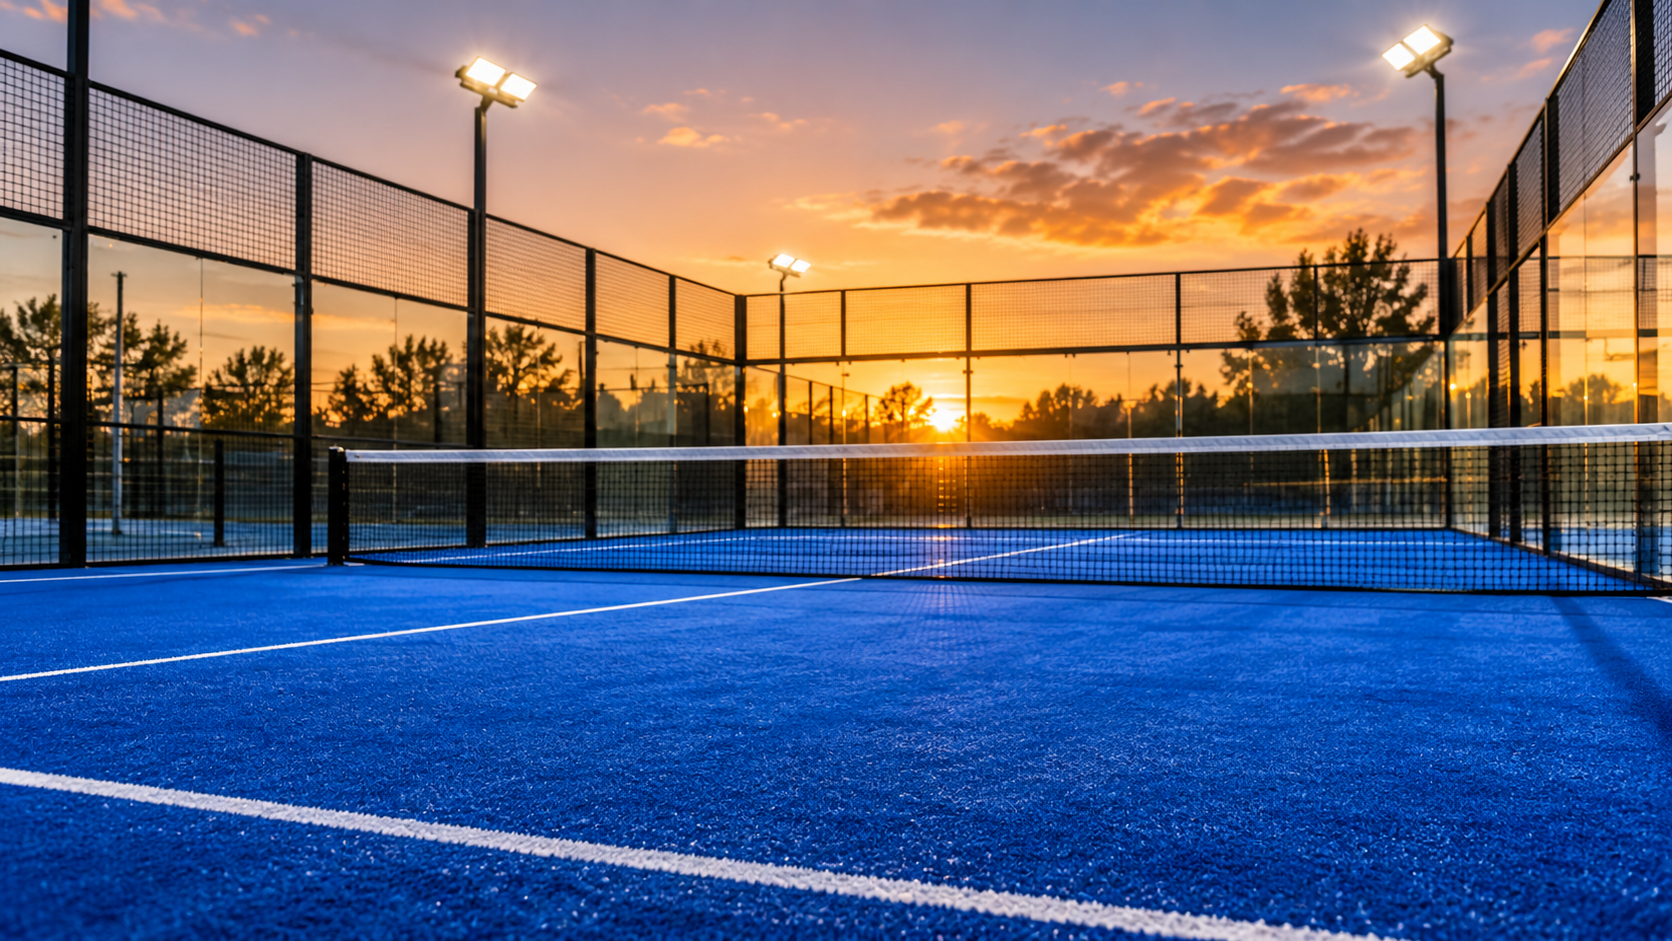
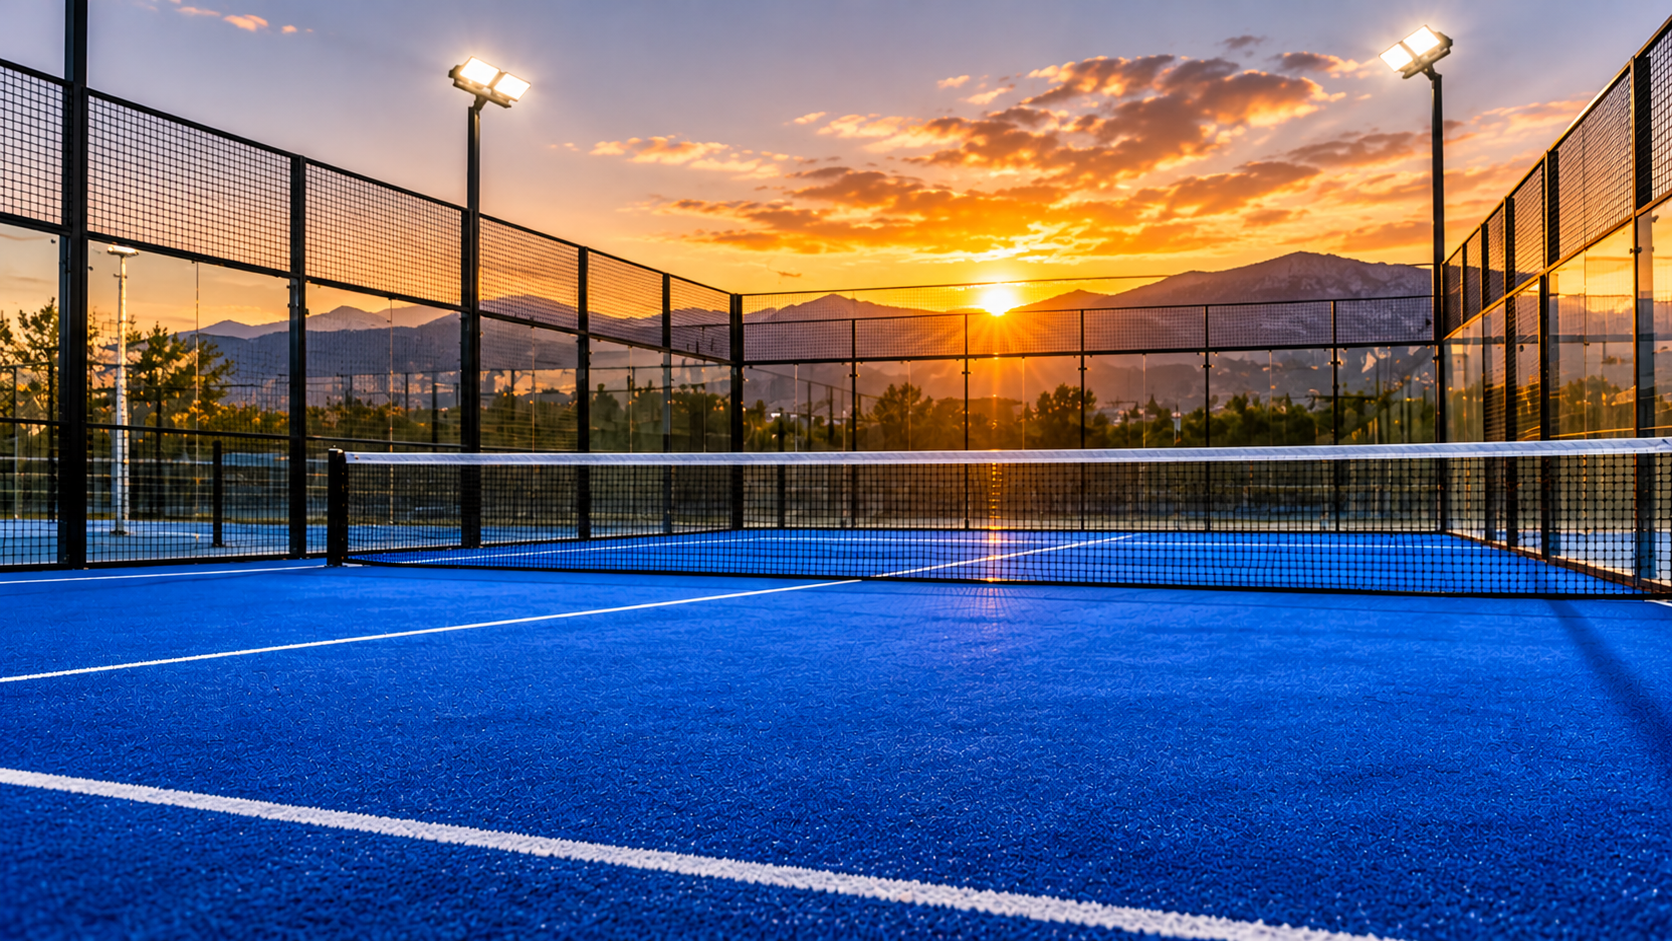
filtros para busqueda de  torneos

diff --git a/src/pages/Torneos.jsx b/src/pages/Torneos.jsx
@@ -1,26 +1,263 @@
+import { useState, useMemo } from 'react';
 import useFetch from '../hooks/useFetch';
 import TorneoCard from '../components/torneo/TorneoCard';
+import { DEPARTAMENTOS_CATAMARCA } from '../constants/departamentos';
 
 function Torneos() {
+  // Consumo tanto los torneos como los clubes para cruzar departamentos y poblar los filtros
   const { data: torneos, loading, error } = useFetch('/torneos');
+  const { data: clubes } = useFetch('/clubes');
+
+  // Pestaña temporal: 'proximos' | 'activos' | 'pasados'
+  const [tabTemporal, setTabTemporal] = useState('proximos');
+  const [busqueda, setBusqueda] = useState('');
+  const [categoriaFiltro, setCategoriaFiltro] = useState('Todas');
+  const [departamentoFiltro, setDepartamentoFiltro] = useState('Todos');
+  const [clubFiltro, setClubFiltro] = useState('Todos');
+
+  // Armo dinámicamente el listado ordenado de clubes reales para el desplegable
+  const clubesDisponibles = useMemo(() => {
+    const nombres = new Set();
+
+    if (Array.isArray(clubes)) {
+      clubes.forEach((c) => {
+        if (c.nombre) nombres.add(c.nombre.trim());
+      });
+    }
+
+    if (Array.isArray(torneos)) {
+      torneos.forEach((t) => {
+        if (typeof t.club === 'string' && t.club.trim()) nombres.add(t.club.trim());
+        if (t.club?.nombre) nombres.add(t.club.nombre.trim());
+        if (typeof t.sede === 'string' && t.sede.trim()) nombres.add(t.sede.trim());
+        if (Array.isArray(t.clubes)) {
+          t.clubes.forEach((c) => {
+            const nom = typeof c === 'string' ? c : c?.nombre;
+            if (nom) nombres.add(nom.trim());
+          });
+        }
+      });
+    }
+
+    return Array.from(nombres).sort((a, b) => a.localeCompare(b));
+  }, [clubes, torneos]);
+
+  // 1. Aplico pestaña temporal + buscador + categoría + departamento + club y ordeno por fecha
+  const torneosFiltrados = useMemo(() => {
+    if (!torneos) return [];
+
+    const hoy = new Date();
+    hoy.setHours(0, 0, 0, 0);
+
+    return torneos
+      .filter((t) => {
+        const inicio = new Date(t.fechaInicio);
+        const fin = t.fechaFin ? new Date(t.fechaFin) : inicio;
+        inicio.setHours(0, 0, 0, 0);
+        fin.setHours(23, 59, 59, 999);
+
+        // Filtro por estado temporal respecto a la fecha actual
+        if (tabTemporal === 'proximos' && (inicio <= hoy || t.estado === 'finalizado')) return false;
+        if (tabTemporal === 'activos' && (hoy < inicio || hoy > fin || t.estado === 'finalizado')) return false;
+        if (tabTemporal === 'pasados' && fin >= hoy && t.estado !== 'finalizado') return false;
+
+        // Filtro por nombre del torneo
+        const termino = busqueda.toLowerCase().trim();
+        const coincideTexto = !termino || t.nombre.toLowerCase().includes(termino);
+
+        // Filtro por categoría
+        const coincideCategoria =
+          categoriaFiltro === 'Todas' ||
+          (Array.isArray(t.categorias) && t.categorias.includes(categoriaFiltro));
+
+        // Texto normalizado de las sedes del torneo para evaluar club y departamento
+        const textoSede = [
+          typeof t.club === 'string' ? t.club : t.club?.nombre,
+          t.sede,
+          ...(Array.isArray(t.clubes) ? t.clubes.map((c) => (typeof c === 'string' ? c : c?.nombre)) : [])
+        ]
+          .filter(Boolean)
+          .join(' ')
+          .toLowerCase();
+
+        // Filtro por club sede
+        const coincideClub =
+          clubFiltro === 'Todos' || textoSede.includes(clubFiltro.toLowerCase());
+
+        // Filtro por departamento (toma el dato directo del torneo o lo deduce desde el club sede)
+        let coincideDpto = departamentoFiltro === 'Todos';
+        if (!coincideDpto) {
+          const dptoDirecto = t.departamento || t.club?.departamento;
+          if (dptoDirecto) {
+            coincideDpto = dptoDirecto === departamentoFiltro;
+          } else if (Array.isArray(clubes)) {
+            coincideDpto = clubes.some(
+              (c) =>
+                (c.departamento || 'Capital') === departamentoFiltro &&
+                c.nombre &&
+                textoSede.includes(c.nombre.toLowerCase())
+            );
+          }
+        }
+
+        return coincideTexto && coincideCategoria && coincideClub && coincideDpto;
+      })
+      .sort((a, b) =>
+        tabTemporal === 'pasados'
+          ? new Date(b.fechaInicio) - new Date(a.fechaInicio) // Finalizados: más recientes arriba
+          : new Date(a.fechaInicio) - new Date(b.fechaInicio) // Próximos / En curso: más cercanos arriba
+      );
+  }, [torneos, clubes, tabTemporal, busqueda, categoriaFiltro, departamentoFiltro, clubFiltro]);
+
+  // 2. Agrupo los torneos filtrados por "Mes Año" para dibujar los separadores visuales
+  const torneosPorMes = useMemo(() => {
+    return torneosFiltrados.reduce((grupos, torneo) => {
+      const fecha = new Date(torneo.fechaInicio);
+      const mesAnio = fecha.toLocaleDateString('es-AR', {
+        month: 'long',
+        year: 'numeric'
+      });
+      const etiqueta = mesAnio.charAt(0).toUpperCase() + mesAnio.slice(1);
+
+      if (!grupos[etiqueta]) grupos[etiqueta] = [];
+      grupos[etiqueta].push(torneo);
+      return grupos;
+    }, {});
+  }, [torneosFiltrados]);
+
+  const limpiarFiltros = () => {
+    setBusqueda('');
+    setCategoriaFiltro('Todas');
+    setDepartamentoFiltro('Todos');
+    setClubFiltro('Todos');
+  };
 
   return (
     <div className="max-w-6xl mx-auto py-12 px-4">
-      <h1 className="text-3xl font-bold text-primary mb-8">Próximos Torneos</h1>
+      {/* ENCABEZADO */}
+      <div className="text-center mb-10">
+        <h1 className="text-4xl font-black text-primary mb-2">Torneos de Pádel</h1>
+        <p className="text-gray-500 max-w-xl mx-auto">
+          Descubrí todos los torneos disponibles en Catamarca, filtrá por categoría, departamento o club y agendá tus fechas.
+        </p>
+      </div>
 
-      {loading && <p className="text-center text-gray-500">Cargando torneos... ⏳</p>}
-      {error && <p className="text-center text-red-500">{error} ❌</p>}
+      {/* PANEL DE BÚSQUEDA Y FILTROS (3 COLUMNAS) */}
+      <div className="bg-white p-5 rounded-2xl shadow-sm border border-gray-200 mb-6 space-y-4">
+        <input
+          type="text"
+          value={busqueda}
+          onChange={(e) => setBusqueda(e.target.value)}
+          placeholder="🔍 Buscar torneo por nombre..."
+          className="w-full border border-gray-300 px-4 py-2.5 rounded-xl text-sm focus:ring-2 focus:ring-secondary outline-none"
+        />
 
-      {torneos && torneos.length === 0 && (
-        <p className="text-center text-gray-500">No hay torneos programados por el momento.</p>
+        <div className="grid grid-cols-1 md:grid-cols-3 gap-3">
+          <select
+            value={categoriaFiltro}
+            onChange={(e) => setCategoriaFiltro(e.target.value)}
+            className="border border-gray-300 px-4 py-2.5 rounded-xl text-sm font-semibold text-primary outline-none focus:ring-2 focus:ring-secondary"
+          >
+            <option value="Todas">🎾 Todas las categorías</option>
+            {['1ra', '2da', '3ra', '4ta', '5ta', '6ta', '7ma', '8va', 'Damas', 'Mixto'].map((cat) => (
+              <option key={cat} value={cat}>
+                Categoría {cat}
+              </option>
+            ))}
+          </select>
+
+          <select
+            value={departamentoFiltro}
+            onChange={(e) => setDepartamentoFiltro(e.target.value)}
+            className="border border-gray-300 px-4 py-2.5 rounded-xl text-sm font-semibold text-primary outline-none focus:ring-2 focus:ring-secondary"
+          >
+            <option value="Todos">📍 Todos los dptos.</option>
+            {DEPARTAMENTOS_CATAMARCA.map((dep) => (
+              <option key={dep} value={dep}>
+                {dep}
+              </option>
+            ))}
+          </select>
+
+          <select
+            value={clubFiltro}
+            onChange={(e) => setClubFiltro(e.target.value)}
+            className="border border-gray-300 px-4 py-2.5 rounded-xl text-sm font-semibold text-primary outline-none focus:ring-2 focus:ring-secondary"
+          >
+            <option value="Todos">🏟 Todos los clubes</option>
+            {clubesDisponibles.map((club) => (
+              <option key={club} value={club}>
+                {club}
+              </option>
+            ))}
+          </select>
+        </div>
+      </div>
+
+      {/* PESTAÑAS TEMPORALES: PRÓXIMOS / EN CURSO / FINALIZADOS */}
+      <div className="grid grid-cols-3 bg-white p-1.5 rounded-xl shadow-sm border border-gray-200 mb-10">
+        {[
+          { id: 'proximos', label: '📅 Próximos' },
+          { id: 'activos', label: '🏆 En Curso' },
+          { id: 'pasados', label: '📦 Finalizados' }
+        ].map((item) => (
+          <button
+            key={item.id}
+            type="button"
+            onClick={() => setTabTemporal(item.id)}
+            className={`py-2.5 px-3 rounded-lg font-bold text-sm transition-colors cursor-pointer ${
+              tabTemporal === item.id
+                ? 'bg-primary text-secondary shadow'
+                : 'text-gray-600 hover:text-primary'
+            }`}
+          >
+            {item.label}
+          </button>
+        ))}
+      </div>
+
+      {loading && <p className="text-center text-gray-500 py-10">Cargando torneos... ⏳</p>}
+      {error && <p className="text-center text-red-500 py-10">{error} ❌</p>}
+
+      {!loading && !error && Object.keys(torneosPorMes).length === 0 && (
+        <div className="bg-white rounded-2xl p-12 text-center border border-gray-200">
+          <p className="text-gray-600 font-semibold mb-3">
+            No hay torneos en esta sección con los filtros seleccionados.
+          </p>
+          <button
+            type="button"
+            onClick={limpiarFiltros}
+            className="text-sm font-bold text-primary underline hover:text-secondary cursor-pointer"
+          >
+            Limpiar filtros
+          </button>
+        </div>
       )}
 
-      <div className="grid grid-cols-1 md:grid-cols-2 lg:grid-cols-3 gap-6">
-        {torneos && torneos.map(torneo => (
-          <TorneoCard key={torneo._id} torneo={torneo} />
+      {/* LISTADO AGRUPADO POR MES CON SEPARADOR VISUAL */}
+      <div className="space-y-12">
+        {Object.entries(torneosPorMes).map(([mesAnio, listaTorneos]) => (
+          <section key={mesAnio}>
+            <div className="flex items-center gap-4 mb-6">
+              <span className="bg-secondary text-primary text-xs font-black uppercase tracking-wider px-3.5 py-1.5 rounded-full shadow-sm">
+                📅 {mesAnio}
+              </span>
+              <div className="h-px bg-gray-300 flex-grow" />
+              <span className="text-xs font-bold text-gray-500">
+                {listaTorneos.length} {listaTorneos.length === 1 ? 'torneo' : 'torneos'}
+              </span>
+            </div>
+
+            <div className="grid grid-cols-1 md:grid-cols-2 lg:grid-cols-3 gap-6">
+              {listaTorneos.map((torneo) => (
+                <TorneoCard key={torneo._id} torneo={torneo} />
+              ))}
+            </div>
+          </section>
         ))}
       </div>
     </div>
   );
 }
+
 export default Torneos;

diff --git a/src/components/layout/Layout.jsx b/src/components/layout/Layout.jsx
@@ -25,14 +25,12 @@ function Layout() {
 
   // Helper 1: Estilo dinámico para el texto del enlace (resalta cuando está activo o al pasar el mouse)
   const linkClass = ({ isActive }) =>
-    `relative group font-bold text-sm py-1 transition-colors ${
-      isActive ? 'text-primary' : 'text-gray-600 hover:text-primary'
+    `relative group font-bold text-sm py-1 transition-colors ${isActive ? 'text-primary' : 'text-gray-600 hover:text-primary'
     }`;
 
   // Helper 2: Barra inferior verde lima que queda fija si la ruta está activa y se despliega en hover en las demás
   const underlineClass = (isActive) =>
-    `block h-0.5 bg-secondary transition-all duration-300 mt-0.5 ${
-      isActive ? 'w-full' : 'w-0 group-hover:w-full'
+    `block h-0.5 bg-secondary transition-all duration-300 mt-0.5 ${isActive ? 'w-full' : 'w-0 group-hover:w-full'
     }`;
 
   return (
@@ -53,7 +51,7 @@ function Layout() {
             <NavLink to="/" end className={linkClass}>
               {({ isActive }) => (
                 <>
-                  <span>Inicio</span>
+                  <span>Clubes</span>
                   <span className={underlineClass(isActive)} />
                 </>
               )}
@@ -252,7 +250,17 @@ function Layout() {
       </main>
 
       <footer className="bg-primary text-white text-center py-6 mt-auto px-4">
-        <p className="text-sm">© 2026 Catamarca Pádel - Circuito Amateur</p>
+        <p className="text-sm text-gray-300">
+          © 2026 Catamarca Pádel — Desarrollado por{' '}
+          <a
+            href="https://sistemassys.netlify.app/"
+            target="_blank"
+            rel="noopener noreferrer"
+            className="text-secondary font-bold hover:underline transition-colors"
+          >
+            S&amp;S Sistemas Informáticos
+          </a>
+        </p>
       </footer>
     </div>
   );

diff --git a/src/pages/Home.jsx b/src/pages/Home.jsx
@@ -39,7 +39,7 @@ function Home() {
         <div className="w-full max-w-2xl">
           <h1 className="text-4xl md:text-6xl font-black mb-5 leading-tight drop-shadow-md">
             LA GUÍA DEL PÁDEL CATAMARQUEÑO. <br />
-            <span className="text-secondary">Clubes,
+            <span className="text-secondary">Clubes, torneos,
               profesores y mucho más!
               </span>
           </h1>
@@ -83,7 +83,7 @@ function Home() {
               onChange={(e) => setDepartamentoSeleccionado(e.target.value)}
               className="border border-gray-300 bg-white px-4 py-2.5 rounded-lg text-sm font-semibold text-primary focus:ring-2 focus:ring-secondary outline-none w-full sm:w-56"
             >
-              <option value="Todos">📍 Todos los departamentos</option>
+              <option value="Todos">📍 Todos los deptos.</option>
               {DEPARTAMENTOS_CATAMARCA.map((dep) => (
                 <option key={dep} value={dep}>
                   {dep}

diff --git a/README.md b/README.md
@@ -30,3 +30,6 @@ If you are developing a production application, we recommend enabling type-aware
 ```
 
 See the [Oxlint rules documentation](https://oxc.rs/docs/guide/usage/linter/rules) for the full list of rules and categories.
+
+
+
